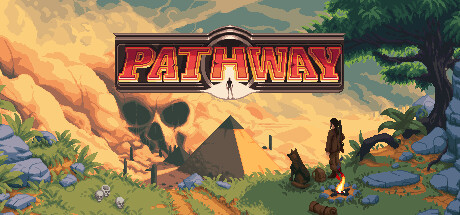
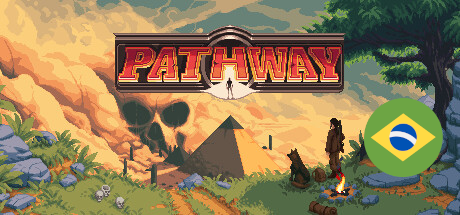
Finalizando README.md

Changed region(s): [[0.7913, 0.4465, 0.9739, 0.8372]]

diff --git a/README.md b/README.md
@@ -1,9 +1,21 @@
-# Pathway-traducao-ptbr
+# Pathway Traducao Português (Brasil)
+[![Pathway](.\Production\pt-BR_preview.png)](https://steamcommunity.com/sharedfiles/filedetails/?id=2986364384)
 
-https://store.steampowered.com/app/546430/Pathway/
+Este é uma tradução para o jogo Pathway que permite jogar em Português (Brasil). Siga as instruções abaixo para instalar a tradução.
+
+## Instruções de Instação pela Steam
+
+* A tradução atualmente está na oficina da steam, basta [inscrever-se](https://steamcommunity.com/sharedfiles/filedetails/?id=2986364384) no Item.
 
 
+## Instruções de Instalação Manual
+
+* Faça o download da tradução [pt-BR_v1.0.rar](https://github.com/pobruno/Pathway-traducao-ptbr/releases/tag/v1.0).
+
+* Extraia e substitua todos os arquivo de tradução [pt-BR_v1.0.rar](https://github.com/pobruno/Pathway-traducao-ptbr/releases/tag/v1.0) para dentro da pasta ``...\SteamLibrary\steamapps\common\Pathway\i18n\en-US\``.
 
 
-[![Pathway](https://cdn.akamai.steamstatic.com/steam/apps/546430/header.jpg?t=1660203009)](https://store.steampowered.com/app/546430/Pathway/)
+## Suporte
+
+Se você tiver algum problema ou dúvida em relação à instalação ou ao uso da tradução, sinta-se à vontade para abrir uma [issue](https://github.com/pobruno/Pathway-traducao-ptbr/issues) neste repositório. Farei o possível para ajudá-lo.
 
